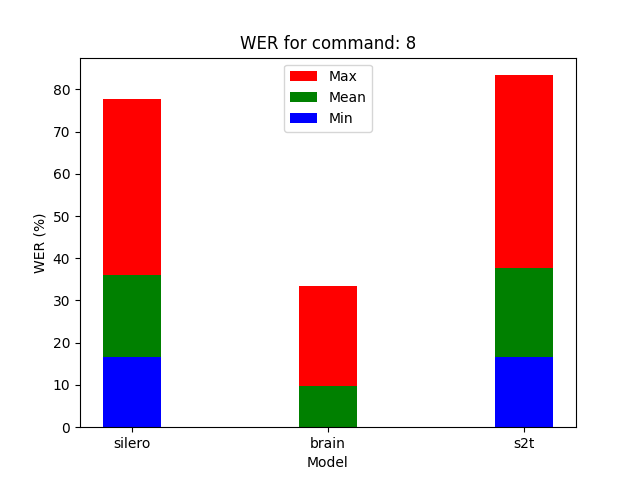
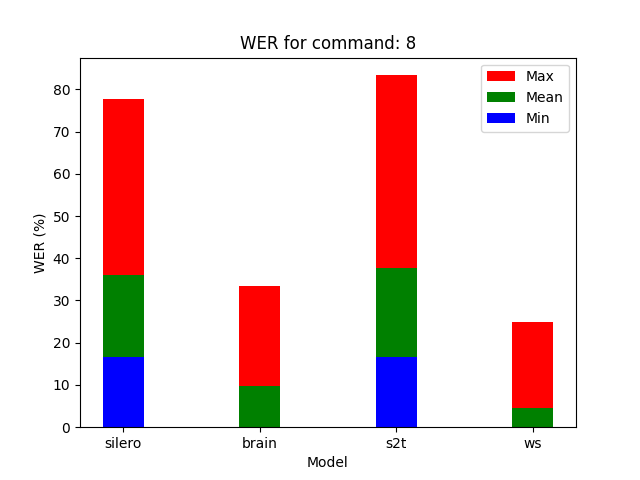
New graphs

diff --git a/utils.py b/utils.py
@@ -3,55 +3,80 @@ from typing import Dict, List
 import requests
 import numpy as np
 
+
 def getData(modelname):
-        resp = requests.get("http://typelias.se:7575/fetch/" + modelname+ ".json")
-        data = resp.json()
-        return data
+    resp = requests.get("http://typelias.se:7575/fetch/" + modelname + ".json")
+    data = resp.json()
+    return data
 
 
 def getResultMap(modelData, isWer):
-        dataPoint = 'commandWers' if isWer else 'commandTimes'
-        return modelData[dataPoint]
+    dataPoint = 'commandWers' if isWer else 'commandTimes'
+    return modelData[dataPoint]
+
 
 def fetchResultMap(modelname, isWer):
-        data = getData(modelname)
-        return getResultMap(data, isWer)
+    data = getData(modelname)
+    return getResultMap(data, isWer)
+
+
+def getTotalAvg(modelname):
+    data = getData(modelname)
+    return data['totalResults']
+
 
 def getAvg(input: Dict[str, List[float]]) -> np.ndarray:
-        l = []
-        for _, v in input.items():
-            arr = np.array(v)
-            l.append(np.mean(arr))
-        l.append(l.pop(0))
-        return np.array(l)
+    l = []
+    for _, v in input.items():
+        arr = np.array(v)
+        l.append(np.mean(arr))
+    l.append(l.pop(0))
+    return np.array(l)
+
 
 def getMin(input: Dict[str, List[float]]) -> np.ndarray:
-        l = []
-        for _, v in input.items():
-            arr = np.array(v)
-            l.append(np.min(arr))
-        l.append(l.pop(0))
-        return np.array(l)
+    l = []
+    for _, v in input.items():
+        arr = np.array(v)
+        l.append(np.min(arr))
+    l.append(l.pop(0))
+    return np.array(l)
+
 
 def getMax(input: Dict[str, List[float]]) -> np.ndarray:
-        l = []
-        for _, v in input.items():
-            arr = np.array(v)
-            l.append(np.max(arr))
-        l.append(l.pop(0))
-        return np.array(l)
+    l = []
+    for _, v in input.items():
+        arr = np.array(v)
+        l.append(np.max(arr))
+    l.append(l.pop(0))
+    return np.array(l)
+
 
 def getStd(input: Dict[str, List[float]]) -> np.ndarray:
-        l = []
-        for _, v in input.items():
-            arr = np.array(v)
-            l.append(np.std(arr))
-        l.append(l.pop(0))
-        return np.array(l)
-            
-def getCommandWERForModels(models: List[str], metricFunction: Function, commandIndex) -> np.ndarray:
-        l = []
-        for model in models:
-            l.append(metricFunction(fetchResultMap(model, True))[commandIndex])
-        return np.array(l)*100
+    l = []
+    for _, v in input.items():
+        arr = np.array(v)
+        l.append(np.std(arr))
+    l.append(l.pop(0))
+    return np.array(l)
 
+
+def getCommandWERForModels(models: List[str], metricFunction: Function, commandIndex) -> np.ndarray:
+    l = []
+    for model in models:
+        l.append(metricFunction(fetchResultMap(model, True))[commandIndex])
+    return np.array(l)*100
+
+
+def getCommandTimeForModels(models: List[str], metricFunction: Function, commandIndex) -> np.ndarray:
+    l = []
+    for model in models:
+        l.append(metricFunction(fetchResultMap(model, False))[commandIndex])
+    return np.array(l)
+
+
+def getAvgForModels(models: List[str], metric: str):
+    l = []
+    for model in models:
+        l.append(getTotalAvg(model)[metric])
+    return np.array(l)

diff --git a/wer.py b/wer.py
@@ -7,69 +7,25 @@ from utils import getCommandWERForModels, getAvg, getMax, getMin
 
 # print(getAvg(arr)*100)
 
-models = ['silero', 'brain', 's2t']
+models = ['silero', 'brain', 's2t', 'ws']
 
 
 x = np.array([x for x in range(len(models)+1)][1:])
 print(len(x))
 
 for i in range(10):
-        model_mean = getCommandWERForModels(models, getAvg, i)
-        model_max = getCommandWERForModels(models, getMax, i)
-        model_min = getCommandWERForModels(models, getMin, i)
+    model_mean = getCommandWERForModels(models, getAvg, i)
+    model_max = getCommandWERForModels(models, getMax, i)
+    model_min = getCommandWERForModels(models, getMin, i)
 
-        plt.bar(x, model_max, width=0.3, color='r', label='Max')
-        plt.bar(x, model_mean, width=0.3, color='g', label='Mean')
-        plt.bar(x, model_min, width=0.3, color='b', label='Min')
-        
-        plt.legend()
-        plt.title('WER for command: '+ str(i+1))
-        plt.ylabel('WER (%)')
-        plt.xlabel('Model')
-        plt.xticks(x, models)
-        plt.savefig('CommandWer/wer_command_'+str(i+1)+'.png')
-        plt.clf()
+    plt.bar(x, model_max, width=0.3, color='r', label='Max')
+    plt.bar(x, model_mean, width=0.3, color='g', label='Mean')
+    plt.bar(x, model_min, width=0.3, color='b', label='Min')
 
-
-
-
-
-
-
-
-# sb_wer = getAvg(fetchResultMap('brain', True))*100
-# sb_min = getMin(fetchResultMap('brain', True))*100
-# sb_max = getMax(fetchResultMap('brain', True))*100
-# sb_yerr = [np.subtract(sb_wer, sb_min), np.subtract(sb_max, sb_wer)]
-
-# s2t_wer = getAvg(fetchResultMap('s2t', True))*100
-# s2t_min = getMin(fetchResultMap('s2t', True))*100
-# s2t_max = getMax(fetchResultMap('s2t', True))*100
-# s2t_yerr = [np.subtract(s2t_wer, s2t_min), np.subtract(s2t_max, s2t_wer)]
-
-
-# # ws = [0, 2.083, 0, 0, 0, 0, 0.833, 6.845, 6.944, 0]
-# # ws_std = [0, 6.910, 0, 0, 0, 0, 2.764, 13.240, 14.367, 0]
-
-
-# width = 0.2
-
-# plt.figure(figsize=(10, 5))
-# plt.bar(x - (width*2), silero_wer, width=width,
-#         label='Silero Oculus', color='#ff0000', yerr=silero_yerr, capsize=3)
-# plt.bar(x-width, silero_wer, width=width, label='Silero Server',
-#         color='#FF00FF', yerr=silero_yerr, capsize=3)
-# plt.bar(x, sb_wer, width=width, label='SB',
-#         color='#00ff00', yerr=sb_yerr, capsize=3)
-# plt.bar(x + width, s2t_wer, width=width, label='S2T',
-#         color='#0000ff', yerr=s2t_yerr, capsize=3)
-
-# # plt.bar(x+(width*3), ws, width=width, label='WebSpeech', color='#00FFFF')
-
-# plt.yticks(np.arange(0, 105, 5))
-# plt.xticks(np.arange(0, 11, 1))
-# plt.xlabel('Command')
-# plt.ylabel('WER (%)')
-# plt.legend()
-# # plt.ylim(0)
-# plt.savefig('wer.png')
+    plt.legend()
+    plt.title('WER for command: ' + str(i+1))
+    plt.ylabel('WER (%)')
+    plt.xlabel('Model')
+    plt.xticks(x, models)
+    plt.savefig('CommandWer/wer_command_'+str(i+1)+'.png')
+    plt.clf()

diff --git a/time.py b/time.py
@@ -1,38 +1,21 @@
 import matplotlib.pyplot as plt
 import numpy as np
-x = np.array([1, 2, 3, 4, 5, 6, 7, 8, 9, 10])
+from utils import getCommandTimeForModels, getAvg, getStd
 
-silero_time = [1948.378, 2464.686, 2261.842, 1947.677,
-              2088.750, 1771.138, 3217.579, 3877.360, 2647.878, 2125.608]
-silero_time_std = [379.150, 457.594, 343.415, 331.277, 300.931, 207.425, 509.194, 426.836, 389.567, 440.130]
-sb_time = [127.277, 137.723, 123.312, 110.010, 139.534, 117.670, 149.025, 136.857, 133.034, 126.223]
-sb_time_std = [29.762, 30.322, 21.106, 15.771, 57.484, 27.437, 21.082, 35.526, 21.154, 32.685]
+models = ['silero', 'silero_server', 'brain', 's2t']
+model_names = ['silero Oculus', 'silero Server', 'Brain', 'S2T']
 
-s2t_time = [107.289, 128.473, 123.833, 101.662, 119.342, 98.779, 159.861, 132.139, 136.842, 102.982]
-s2t_time_std = [74.579, 45.510, 50.693, 15.099, 14.750, 20.861, 97.829, 17.795, 18.310, 16.976]
 
-silero_server_time = [119.580, 134.708, 152.060, 115.607, 114.987, 105.111, 154.830, 129.966, 162.687, 98.540]
-silero_server_time_std = [96.582, 119.380, 114.031, 83.141, 76.190, 55.586, 108.894, 83.250, 122.492, 53.911]
+x = np.array([x for x in range(len(models)+1)][1:])
+print(len(x))
 
-kaldi_time = [1800.052, 2341.468, 2124.486, 1393.822, 589.659, 838.543, 3220.830, 2895.459, 2658.430, 2021.957]
-kaldi_time_std = [404.448, 470.210, 310.297, 636.573, 78.136, 542.252, 452.721, 450.233, 399.810, 420.415]
-
-width = 0.15
-
-plt.bar(x - (2*width), silero_time, width=width, label='Silero Oculus',
-        color='#ff0000', yerr=silero_time_std)
-plt.bar(x-width, silero_server_time, width=0.2, label='Silero Server', color='#FF00FF',yerr=silero_server_time_std)
-plt.bar(x, sb_time, width=width, label='SB', color='#00ff00', yerr=sb_time_std)
-plt.bar(x + width, s2t_time, width=0.2, label='S2T', color='#0000ff', yerr=s2t_time_std)
-plt.bar(x+(width*2), kaldi_time, width=width, label='Kaldi', color='#FFFF00', yerr=kaldi_time_std)
-
-# plt.bar(x+0.2, s2t, width=0.2, label='S2T', color='#0000ff')
-# plt.bar(x+0.4, silero_server, width=0.2,
-#         label='Silero Server', color='#ff00ff')
-m = max(silero_time) + 200
-plt.yticks(np.arange(0, m, 200))
-plt.xticks(np.arange(0,11,1))
-plt.xlabel('Command')
-plt.ylabel('Time (ms)')
-plt.legend()
-plt.savefig('times.png')
+for i in range(10):
+    model_mean = getCommandTimeForModels(models, getAvg, i)
+    model_std = getCommandTimeForModels(models, getStd, i)
+    plt.title('Mean Time for command: ' + str(i+1))
+    plt.ylabel('Time (ms)')
+    plt.xlabel('Model')
+    plt.xticks(x, model_names)
+    plt.yticks([x for x in range(0, 6500, 500)])
+    plt.bar(x, model_mean, width=0.3, color='g', label='Mean', yerr=model_std)
+    plt.savefig('CommandTime/time_command_'+str(i+1)+'.png')

diff --git a/total_times.py b/total_times.py
@@ -1,26 +1,31 @@
 import matplotlib.pyplot as plt
 import numpy as np
 
-x = np.array([1, 2, 3, 4, 5])
+from utils import getAvgForModels
 
-totalTimes = [2802.090, 152.060, 156.080, 145.343, 386.165]
-avgTimes = [2335.108, 126.716, 130.066, 121.119, 1988.471]
+models = ['silero', 'silero_server', 'brain', 's2t']
 
+x = np.array([x for x in range(len(models)+1)][1:])
 
-plt.figure(figsize=(10, 7))
+avgTime = getAvgForModels(models, 'avgTime')
+totalTime = getAvgForModels(models, 'totalTime')
 
-plt.subplot(1, 2, 1)
-plt.bar(x, totalTimes, label='Total Time', color='#ff0000')
-plt.xticks(x, ['silero oculus', 'silero server', 'sb', 's2t', 'kaldi' ], rotation=15, ha="right")
-plt.xlabel('Model')
-plt.ylabel('Time (s)')
-plt.title('Time to compleete Benchmark')
-
-plt.subplot(1, 2, 2)
-plt.bar(x, avgTimes, label='Average Time', color='#00ff00')
-plt.xticks(x, ['silero oculus', 'silero server', 'sb', 's2t', 'kaldi' ], rotation=15, ha="right")
-plt.xlabel('Model')
+plt.figure(figsize=(5, 10))
+plt.bar(x, avgTime, color='g', label='Mean')
+plt.xticks(x, models)
 plt.ylabel('Time (ms)')
-plt.title('Average Time per Command')
+plt.xlabel('Model')
+plt.yticks([x for x in range(0, 3600, 100)])
+plt.title('Mean Time for all commands')
+plt.savefig('Time/time_all_commands.png')
 
-plt.savefig('total_times.png')
+plt.clf()
+
+plt.bar(x, totalTime/1000, color='g', label='Mean')
+plt.xticks(x, models)
+plt.ylabel('Time (s)')
+plt.xlabel('Model')
+plt.yticks([x for x in range(0, 4300, 100)])
+
+plt.title('Total Time for benchmark')
+plt.savefig('Time/time_benchmark.png')

diff --git a/total_wer.py b/total_wer.py
@@ -1,18 +1,20 @@
 import matplotlib.pyplot as plt
 import numpy as np
+from utils import getAvgForModels
 
-x = np.array([1,2,3,4, 5, 6])
 
-avg_wer = [26.149,26.149, 13.962, 33.293, 100, 1.671]
-avg_dirty = [30.024, 30.024, 16.171, 42.416, 100, 1.933]
-avg_clean = [22.274, 22.274, 11.754, 25.170, 100, 1.409]
+models = ['silero', 'brain', 's2t', 'ws']
+x = np.array([x for x in range(len(models)+1)][1:])
+avg_wer = getAvgForModels(models, 'avgWer')
+avg_dirty = getAvgForModels(models, 'avgDirty')
+avg_clean = getAvgForModels(models, 'avgClean')
 
-plt.figure(figsize=(5,7))
+plt.figure(figsize=(5, 7))
 plt.bar(x - 0.3, avg_wer, width=0.3, label='Total Mean', color='#ff0000')
 plt.bar(x, avg_dirty, width=0.3, label='Dirty Mean', color='#00ff00')
 plt.bar(x + 0.3, avg_clean, width=0.3, label='Clean Mean', color='#0000ff')
 plt.legend()
-plt.xticks(x, ['silero oculus', 'silero server', 'sb', 's2t', 'Kaldi', 'WebSpeech'], rotation=15, ha="right")
+plt.xticks(x, models)
 plt.xlabel('Model')
 plt.ylabel('WER (%)')
 
